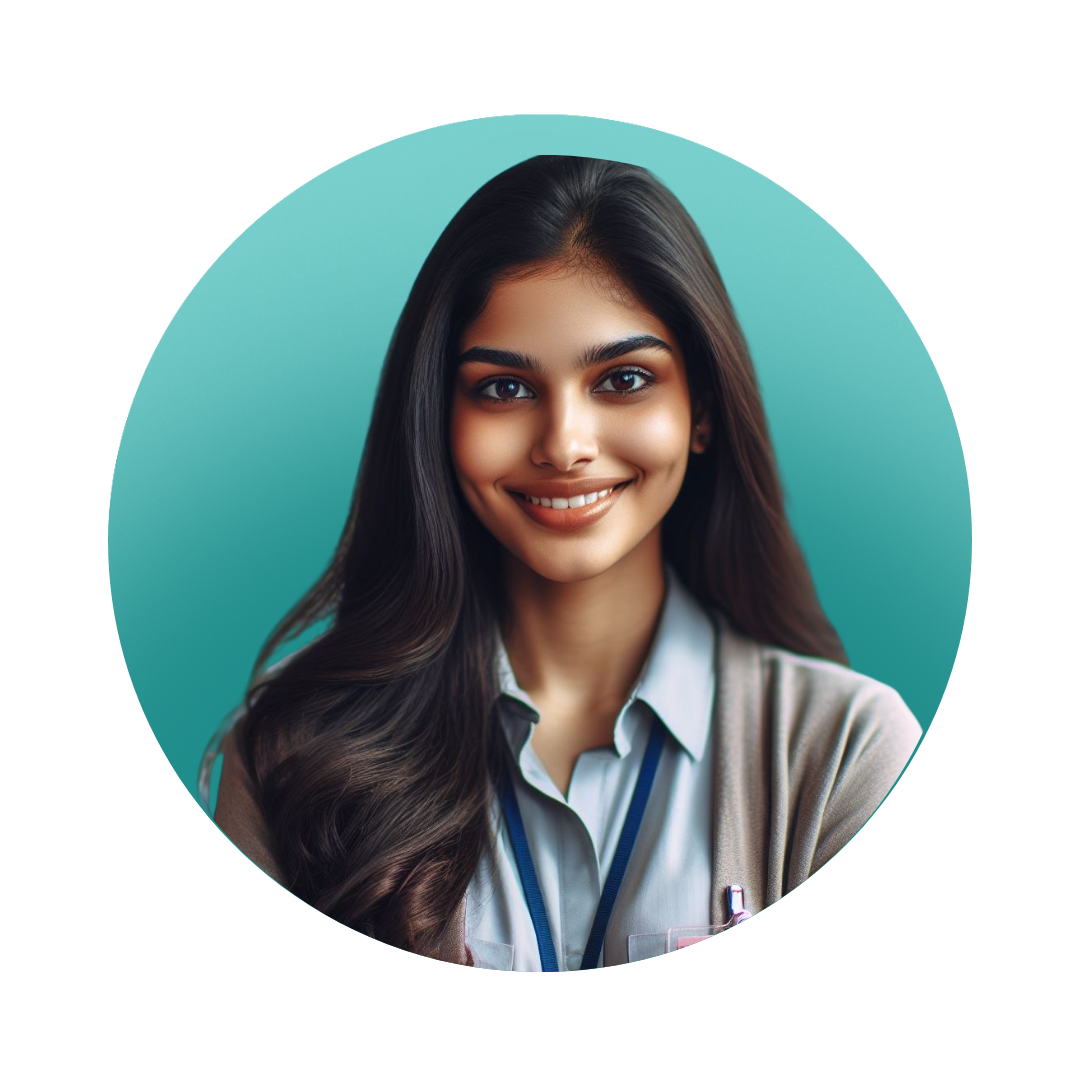
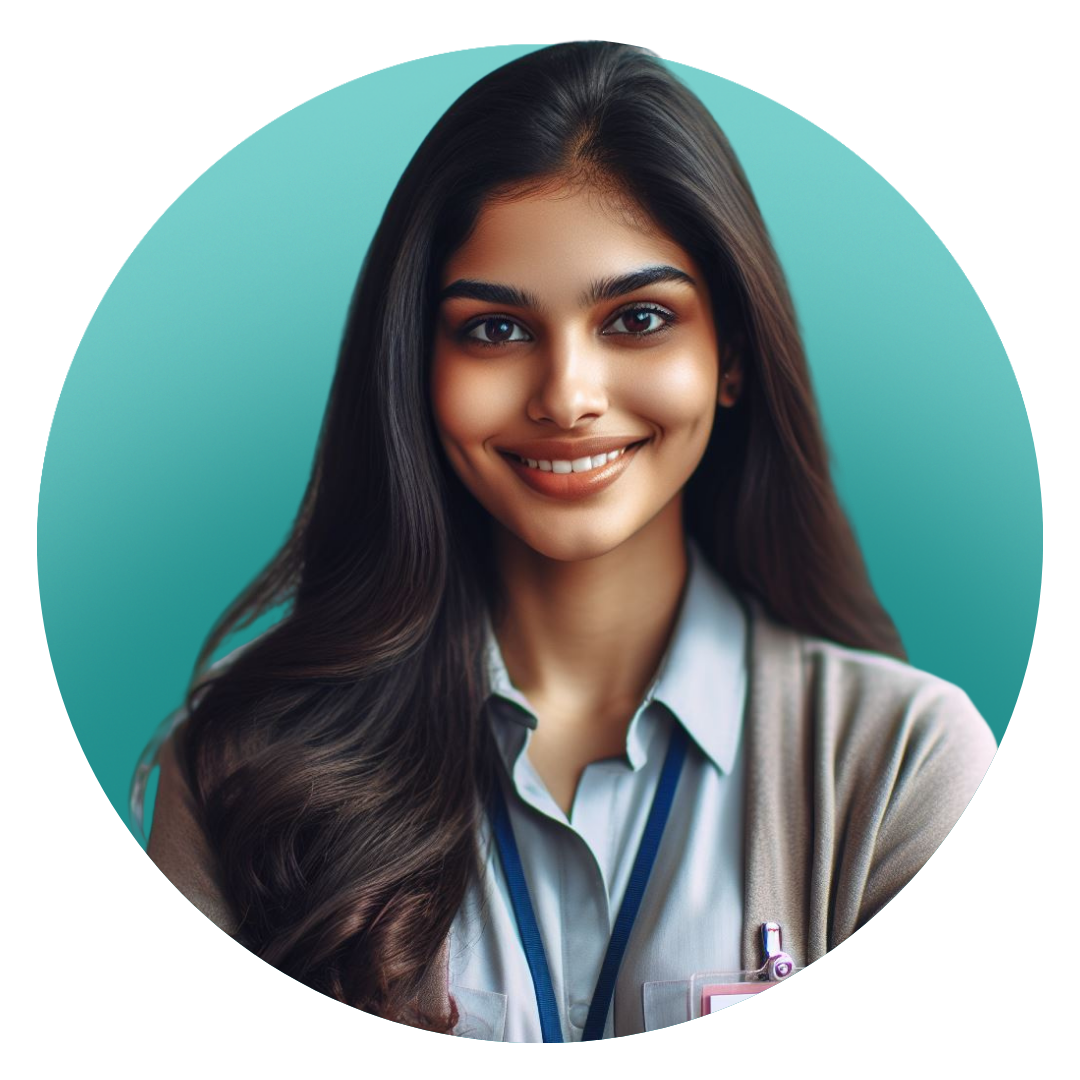
updated

diff --git a/src/app/page.tsx b/src/app/page.tsx
@@ -216,8 +216,10 @@ const Home = () => {
                 <div key={artisan.id} className='w-[30rem] h-[40rem] p-[3px] rounded-xl bg-gradient-to-b from-[#82D6D2] to-[#82D6D200]'>
                   <div className='rounded-xl w-full h-full p-5 bg-gradient-to-t from-[#313b45] to-[#43424c] flex justify-start items-baseline flex-col gap-8 relative backdrop-blur-sm bg-opacity-30 px-8'>
 
-                    <div className='w-full flex justify-center items-baseline'>
-                      <Image src={artisan.face} alt='landing__image__two' width={imageSize} height={imageSize} />
+                    <div className='w-full flex justify-center items-baseline '>
+                      <div className='overflow-hidden w-[50%] h-[100%]'>
+                        <Image src={artisan.face} alt='landing__image__two' className='object-fill' />
+                      </div>
                     </div>
 
                     <div className='text-white font-semibold '>
